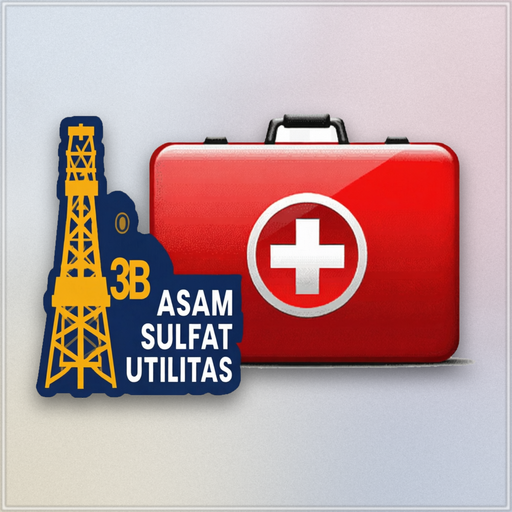
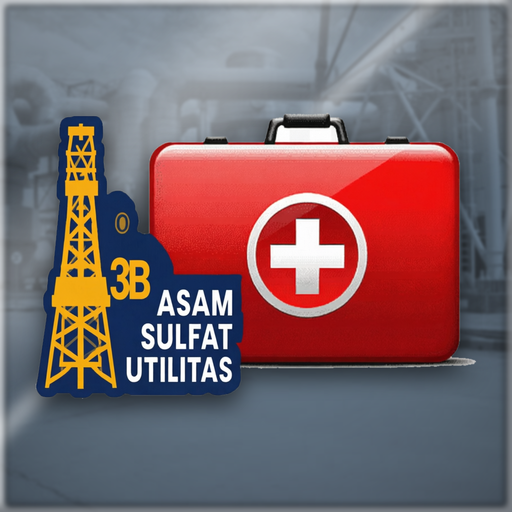
Ikon aplikasi: efek kaca bening (transparan)
- Pemandangan plant terlihat jelas melalui kaca (sedikit buram, rona kebiruan),
  pantulan kilau diagonal, kilau atas, tepi kaca berkilap; logo dengan bayangan lembut
- Nama cache service worker dinaikkan (isi sw.js lain tidak berubah)

Claude-Session: https://claude.ai/code/session_01JMjrSkCQgrKCpvZ28iQx8s

diff --git a/sw.js b/sw.js
@@ -1,7 +1,7 @@
 /* FirstAid SASU3B — service worker
    App shell cache-first, data Google Sheets network-first dengan fallback cache
    supaya aplikasi tetap terbaca di area plant tanpa sinyal. */
-const SHELL = 'fa-sasu3b-shell-v28';
+const SHELL = 'fa-sasu3b-shell-v29';
 const DATA = 'fa-sasu3b-data-v6';
 try { importScripts('./notif.js'); } catch (e) {}
 const META = 'fa-sasu3b-meta';   // catatan notifikasi (dipakai notif.js) — jangan dihapus saat activate
